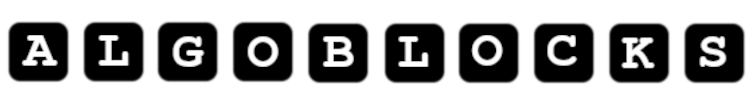
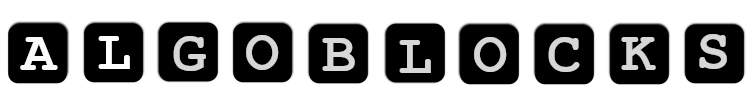
Agrego imagenes Slider y separo en su propio layout
Mejoro calidad banner

diff --git a/src/main/java/edu/fiuba/algo3/javafx/layouts/LayoutDibujo.java b/src/main/java/edu/fiuba/algo3/javafx/layouts/LayoutDibujo.java
@@ -1,53 +1,40 @@
 package edu.fiuba.algo3.javafx.layouts;
 
-import edu.fiuba.algo3.javafx.AnimacionCaminoDibujado;
-import edu.fiuba.algo3.javafx.AnimacionCaminoPersonaje;
-import edu.fiuba.algo3.javafx.Tramo;
-import edu.fiuba.algo3.javafx.Vista;
+import edu.fiuba.algo3.javafx.*;
 import edu.fiuba.algo3.modelo.*;
 import javafx.animation.*;
-import javafx.geometry.Insets;
-import javafx.scene.control.ColorPicker;
 import javafx.scene.control.Slider;
-import javafx.scene.control.SplitPane;
 import javafx.scene.layout.*;
-import javafx.scene.paint.Color;
 import javafx.scene.shape.*;
 
 import java.util.*;
 
 
 public class LayoutDibujo extends StackPane {
-    private final Pane pane = new Pane();
+    private final Pane hoja = new Pane();
     public Slider velocidad;
     static final private String DIR_INICIAL = "Derecha";
     static final private boolean VISIBILIDAD_INICIAL = true;
 
     public LayoutDibujo(double w, double h){
-        HBox layoutTitulo = new HBox();
-        layoutTitulo.setPadding(new Insets(10,10,10,10));
-        Vista.agregarTitulo(layoutTitulo, "Dibujo");
-        layoutTitulo.setStyle("-fx-background-color: lightgray");
+        LayoutTitulo layoutTitulo = new LayoutTitulo("Dibujo");
         //LAYOUT SLIDER
-        BorderPane layoutSlider = new BorderPane();
-        layoutSlider.setPadding(new Insets(10,10,10,10));
-        this.velocidad = new Slider(0.25, 4, 1);
-        layoutSlider.setRight(velocidad);
-        layoutSlider.setStyle("-fx-background-color: lightgray");
+        LayoutSlider layoutSlider = new LayoutSlider();
+        velocidad = layoutSlider.getSlider();
         //PANEL DELANTERO
         BorderPane panelDelantero = new BorderPane();
         panelDelantero.setTop(layoutTitulo);
-        panelDelantero.setCenter(pane);
+        panelDelantero.setCenter(hoja);
         panelDelantero.setBottom(layoutSlider);
         //THIS
-        pane.setMinSize(w-20, h-40);
-        this.getChildren().addAll(pane, panelDelantero);
+        hoja.setMinSize(w-20, h-40);
+        this.getChildren().addAll(hoja, panelDelantero);
     }
 
     public void graficarMovimientos(Dibujo dib) {
 
-        AnimacionCaminoPersonaje secPersonaje = new AnimacionCaminoPersonaje(pane.getMinWidth()/2, pane.getMinHeight()/2, DIR_INICIAL, VISIBILIDAD_INICIAL);
-        AnimacionCaminoDibujado secDibujado = new AnimacionCaminoDibujado(pane.getMinWidth()*2,pane.getMinHeight()*2, DIR_INICIAL, VISIBILIDAD_INICIAL);
+        AnimacionCaminoPersonaje secPersonaje = new AnimacionCaminoPersonaje(hoja.getMinWidth()/2, hoja.getMinHeight()/2, DIR_INICIAL, VISIBILIDAD_INICIAL);
+        AnimacionCaminoDibujado secDibujado = new AnimacionCaminoDibujado(hoja.getMinWidth()*2, hoja.getMinHeight()*2, DIR_INICIAL, VISIBILIDAD_INICIAL);
 
         List<Tramo> tramos = crearTramos(dib);
 
@@ -55,8 +42,8 @@ public class LayoutDibujo extends StackPane {
             secPersonaje.cargarMovimiento(tramo);
             secDibujado.cargarMovimiento(tramo);
         }
-        secDibujado.agregarAlLayout(pane);
-        secPersonaje.agregarAlLayout(pane);
+        secDibujado.agregarAlLayout(hoja);
+        secPersonaje.agregarAlLayout(hoja);
 
         ParallelTransition pT = new ParallelTransition();
         pT.getChildren().addAll(secDibujado.secuencia, secPersonaje.secuencia);
@@ -85,9 +72,9 @@ public class LayoutDibujo extends StackPane {
             }
             if(!esMovimientoDeLapiz(linea) || visibilidad != linea.esVisible()){
                 if(camino.getElements().isEmpty()){ //MUEVO A ORIGEN LINEA
-                    camino.getElements().add(new MoveTo(linea.getOrigen().getX()+pane.getMinWidth()/2, linea.getOrigen().getY()+pane.getMinHeight()/2));
+                    camino.getElements().add(new MoveTo(linea.getOrigen().getX()+ hoja.getMinWidth()/2, linea.getOrigen().getY()+ hoja.getMinHeight()/2));
                 }
-                camino.getElements().add(new LineTo(linea.getDestino().getX()+pane.getMinWidth()/2, linea.getDestino().getY()+pane.getMinHeight()/2));  //TRAZO UNA LINEA AL DESTINO
+                camino.getElements().add(new LineTo(linea.getDestino().getX()+ hoja.getMinWidth()/2, linea.getDestino().getY()+ hoja.getMinHeight()/2));  //TRAZO UNA LINEA AL DESTINO
                 tam++;
                 visibilidad = linea.esVisible();
                 if(esMovimientoDeLapiz(linea)){
@@ -109,7 +96,7 @@ public class LayoutDibujo extends StackPane {
     }
 
     public void reiniciar(){
-        pane.getChildren().clear();
+        hoja.getChildren().clear();
     }
 
 }

diff --git a/src/main/java/edu/fiuba/algo3/javafx/LayoutSlider.java b/src/main/java/edu/fiuba/algo3/javafx/LayoutSlider.java
@@ -1,0 +1,23 @@
+package edu.fiuba.algo3.javafx;
+
+import javafx.geometry.Insets;
+import javafx.scene.control.Slider;
+import javafx.scene.image.Image;
+import javafx.scene.image.ImageView;
+import javafx.scene.layout.BorderPane;
+import javafx.scene.layout.VBox;
+
+public class LayoutSlider extends BorderPane {
+    private Slider slider = new Slider(0.25, 4, 1);
+    public LayoutSlider(){
+        this.setPadding(new Insets(10,10,10,10));
+        this.setStyle("-fx-background-color: lightgray");
+
+        BorderPane imgsSlider = new BorderPane();
+        imgsSlider.setLeft(new ImageView(new Image("file:recursos/lento.png")));
+        imgsSlider.setRight(new ImageView(new Image("file:recursos/rapido.png")));
+        this.setRight(new VBox(imgsSlider, slider));
+    }
+
+    public Slider getSlider(){return slider;}
+}

diff --git a/src/main/java/edu/fiuba/algo3/javafx/LayoutTitulo.java b/src/main/java/edu/fiuba/algo3/javafx/LayoutTitulo.java
@@ -1,0 +1,12 @@
+package edu.fiuba.algo3.javafx;
+
+import javafx.geometry.Insets;
+import javafx.scene.layout.HBox;
+
+public class LayoutTitulo extends HBox {
+    public LayoutTitulo(String titulo){
+        this.setPadding(new Insets(10,10,10,10));
+        Vista.agregarTitulo(this, titulo);
+        this.setStyle("-fx-background-color: lightgray");
+    }
+}
